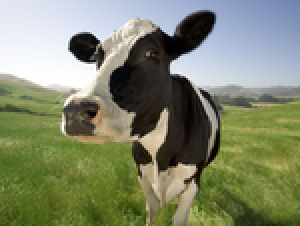
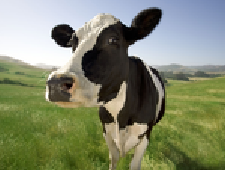
agora com 100% mais vacas

diff --git a/scale-bilinear.m b/scale-bilinear.m
@@ -1,5 +1,5 @@
 pkg load image;
-scale = 0.5;
+scale = 1.5;
 
 I = imread("cow_very_small.png");
 inRows = rows(I);
@@ -14,7 +14,7 @@ for i = 3:-1:1
           nI(:, :, i) = interp2(I(:, :, i), XI, YI, "linear", NA);
 endfor
 
-imwrite(nI, "cow_bilinear_smallest.png");
+imwrite(nI, "cow_bilinear.png");
 
 ## 0.23s - Grow
 ## 0.15s - Shrink

diff --git a/scale-nearest.m b/scale-nearest.m
@@ -1,5 +1,5 @@
 pkg load image;
-scale = 2;
+scale = 1.5;
 
 I = imread("cow_very_small.png");
 inRows = rows(I);
